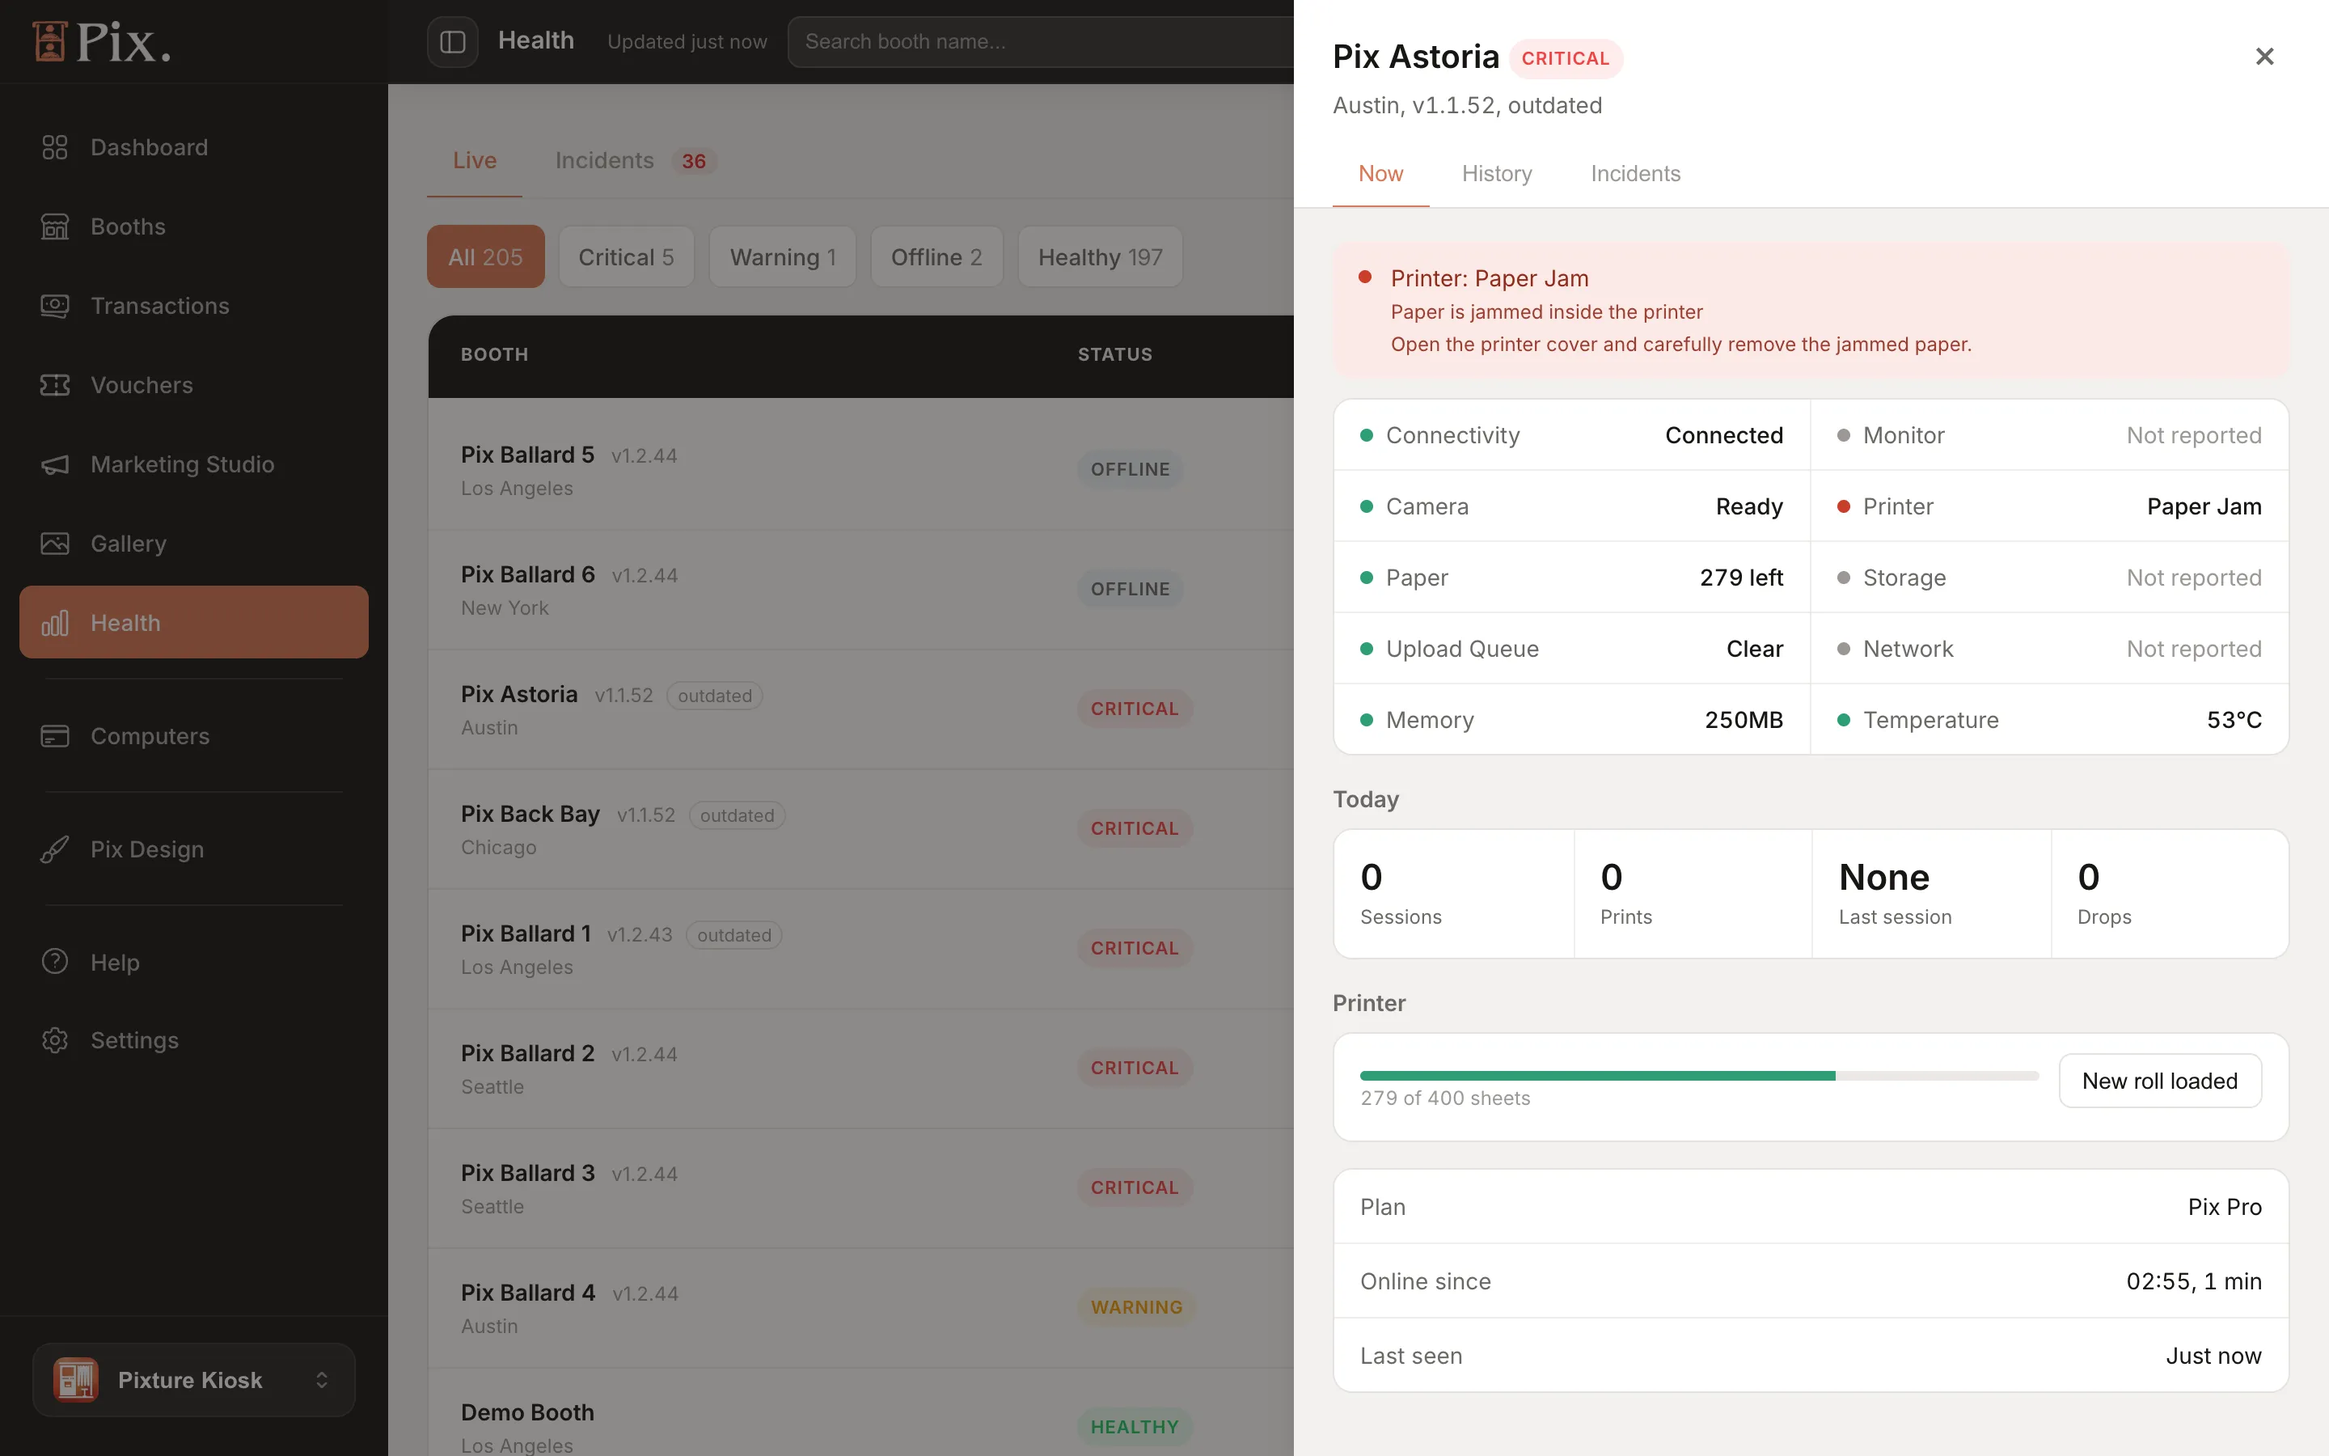
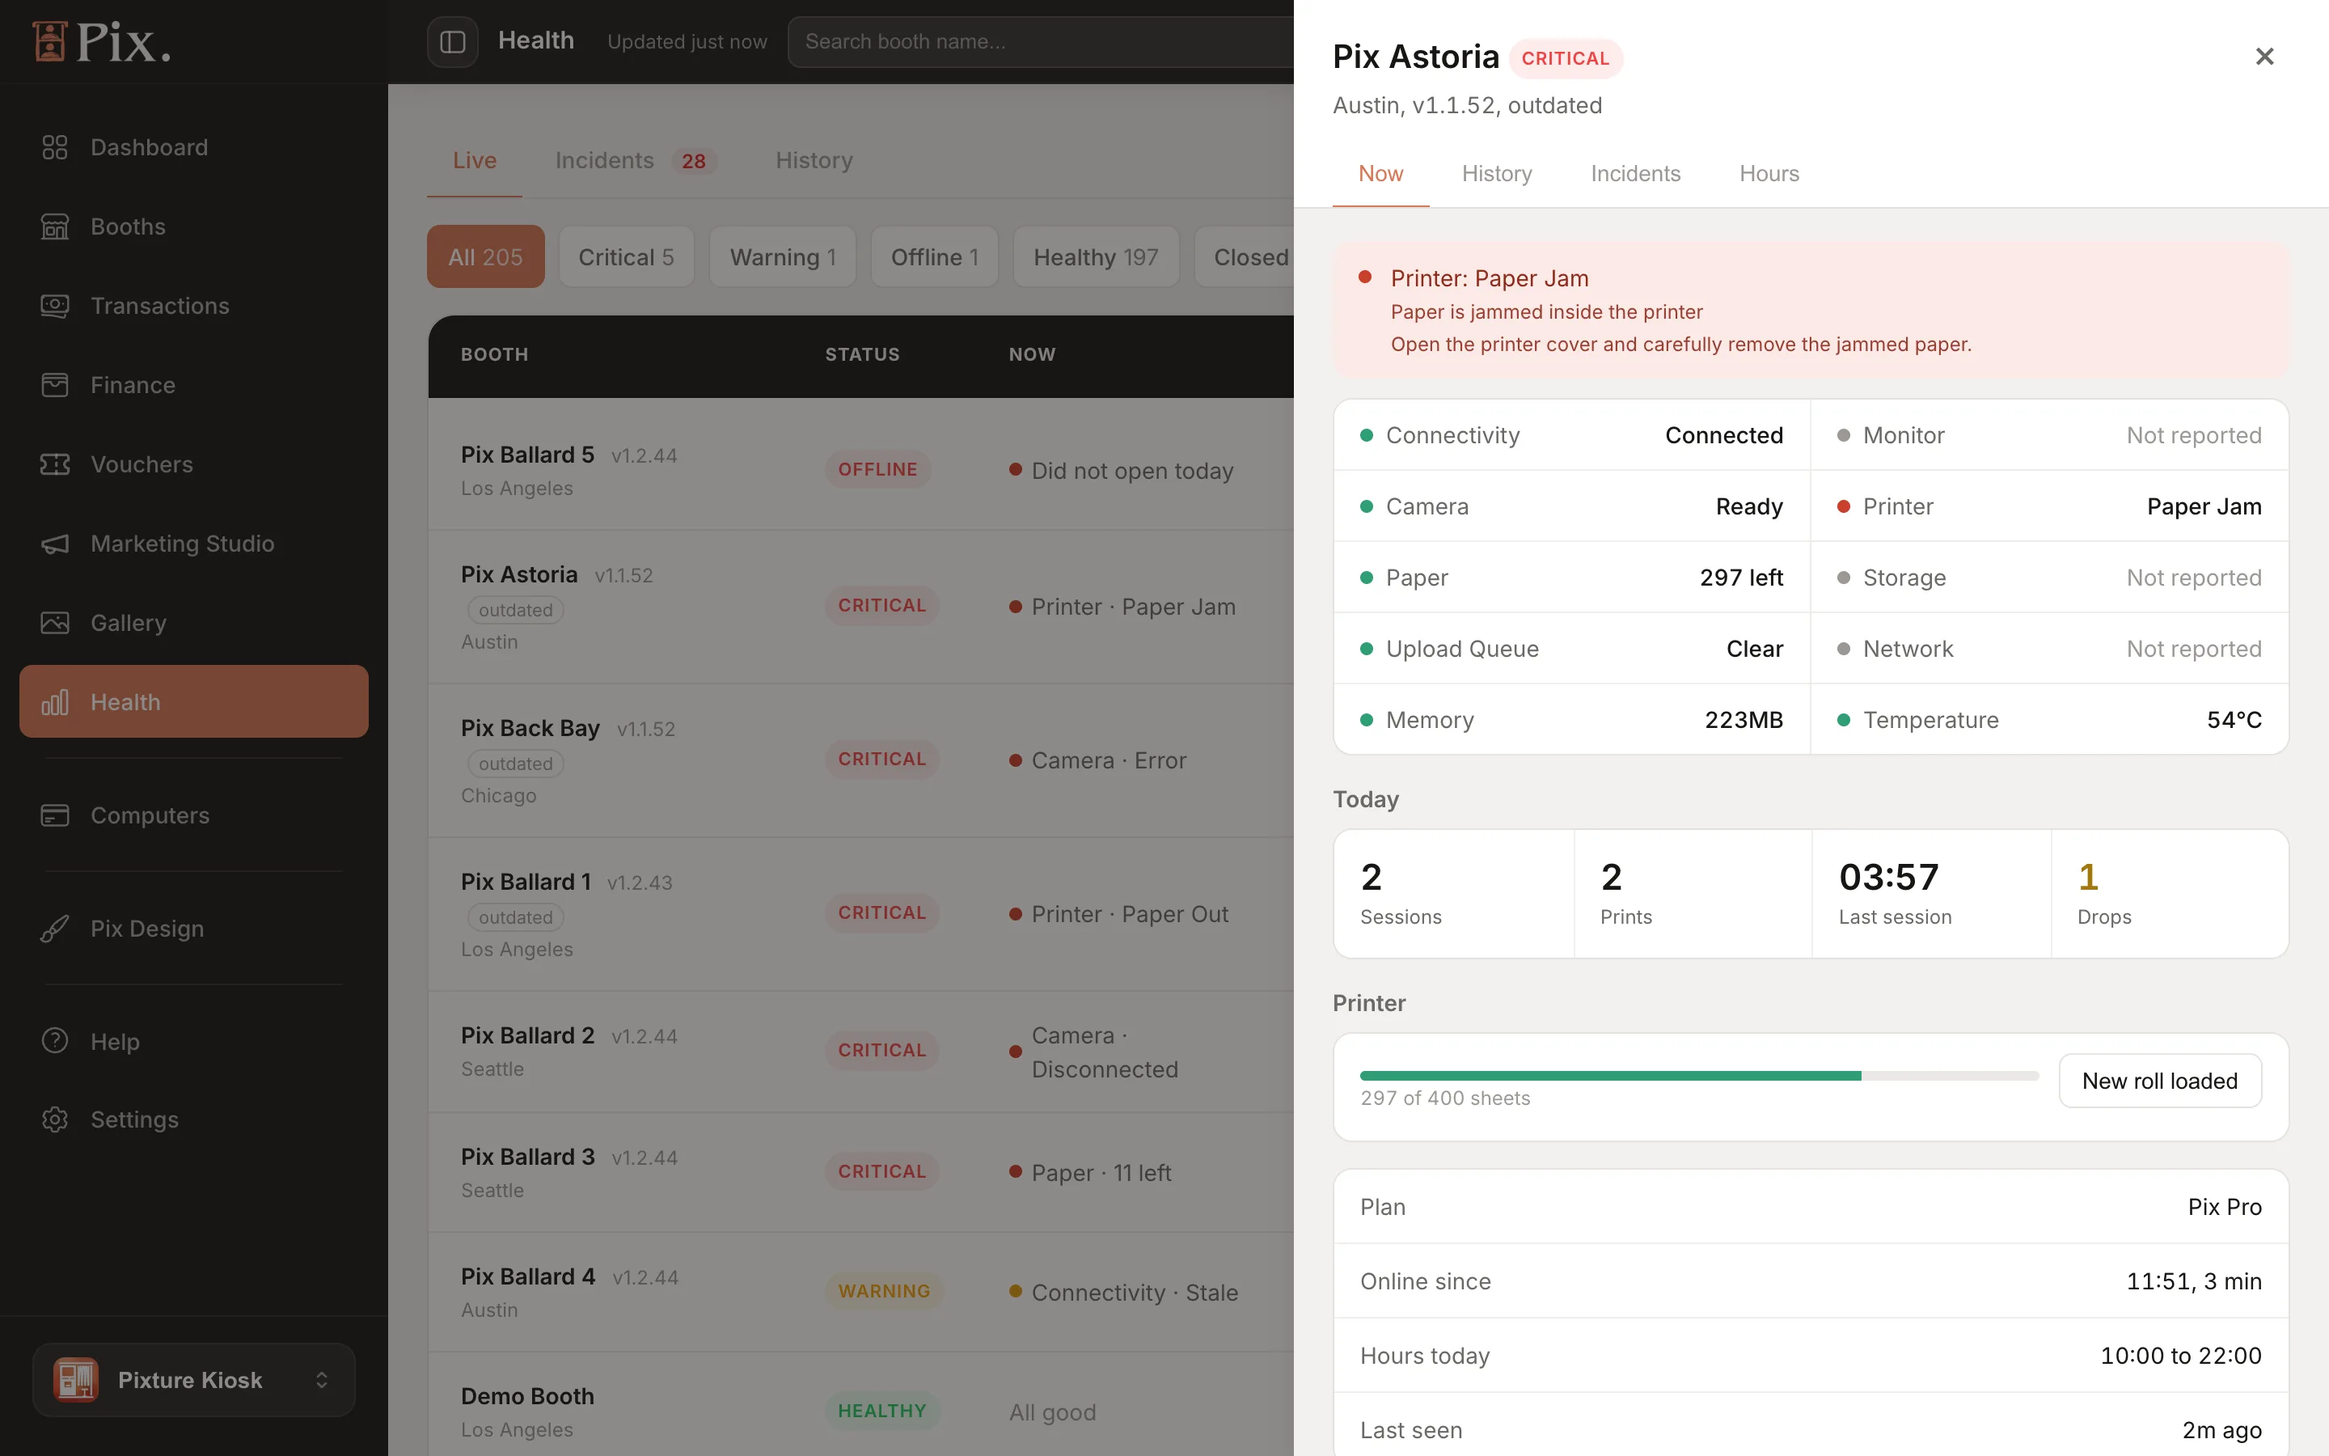
docs(health): opening hours, the History tab, reporting incidents and notes

diff --git a/docs/dashboard/health.md b/docs/dashboard/health.md
@@ -1,29 +1,31 @@
 ---
 sidebar_position: 11
 title: Health
-description: Whether every booth is online and working, with camera, printer, paper and upload signals, a booth view with 60 days of history, and incidents you can filter and download.
+description: Whether every booth is online and working, with opening hours per booth, a day-by-day record of the last 60 days, and incidents you can report, annotate and download.
 tags: [dashboard, health, monitoring]
 ---
 
 # Health
 
-**Health** is the page to open when a booth misbehaves, or before an event starts. It lists every booth with its status, what the booth is reporting right now, today's count and when it last checked in. Click a booth for its readings and 60 days of history, and open **Incidents** for everything that went wrong.
+**Health** is the page to open when a booth misbehaves, or before an event starts. It has three tabs. **Live** lists every booth with its status, what it is reporting right now and when it last checked in. **Incidents** is everything that went wrong, including what your team reports by hand. **History** is every booth, day by day, for the last 60 days.
 
-![Health page: the Live list with Status, Now, Today and Last seen, and the Incidents tab](/img/docs/health.webp)
+![Health page, Live tab: each booth with its status, what it reports now, its hours today, the last 14 days as squares, today's count and when it was last seen](/img/docs/health.webp)
 
 On an account with events, Health follows the workspace you are in. **Pixture Kiosk** lists your self-service booths, **Pixture Event** lists **Event health**: event booths and any booth attached to an event, and the **Overview** lists every booth. An event booth, or a booth attached to an event, shows only while its event is running or still to come. Once the event is past (from 06:00 the morning after its last date, or once it is ended or archived), its booths leave the list. The Event dashboard also shows a Health card. See [Pixture Event, Pixture Kiosk and Overview](./views.md).
 
 ## Live
 
-**Live** is the list of your booths. Booths with a problem come first: Offline, then Critical, Warning and Healthy. The list shows 50 booths per page and refreshes by itself every 30 seconds; the note beside the title says how old the data is.
+**Live** is the list of your booths. Booths with a problem come first: Offline, then Critical, Warning and Healthy, and Closed booths last. The list shows 50 booths per page and refreshes by itself every 30 seconds; the note beside the title says how old the data is.
 
-Search by booth name, pick a **Region**, and filter by **All**, **Critical**, **Warning**, **Offline** or **Healthy**. A status with no booths is left out. Your search and filters stay in the page address, so they survive a reload and you can share the link.
+Search by booth name, pick a **Region**, and filter by **All**, **Critical**, **Warning**, **Offline**, **Healthy** or **Closed**. A status with no booths is left out. Your search and filters stay in the page address, so they survive a reload and you can share the link.
 
 | Column | What it shows |
 |---|---|
 | Booth | The booth's name, its app version (marked **outdated** when a newer one is out) and its region |
-| Status | Healthy, Warning, Critical or Offline |
+| Status | Healthy, Warning, Critical, Offline or Closed. Offline is red when the booth should be open right now |
 | Now | What the booth is reporting, in plain words. "No signal for 1h 18m" for an offline booth, "Never connected" for a booth that has not signed in yet, "Dropped 3 times today" for a booth that keeps losing its connection |
+| Hours today | The booth's opening hours today and when it came online: "Online at 09:58", "Online 47 min late" or "Not online yet". Shown once a booth has [opening hours](#opening-hours) |
+| Last 14 days | One square per day, the same squares as the [History](#history) tab. Hover one to read the day, click it to open that day |
 | Today | Sessions and prints so far today |
 | Last seen | When the computer last checked in |
 
@@ -31,7 +33,33 @@ Search by booth name, pick a **Region**, and filter by **All**, **Critical**, **
 
 The booth checks in every 5 minutes while it runs. A booth is **Online** when its last check-in is within the last **12 minutes**, and **Offline** after that. The same rule is used on the Booths page, the Dashboard and the booth's activity log, so they never disagree.
 
-Offline does not always mean something is wrong. A booth switched off outside opening hours is Offline too. Look at Last seen: a booth that went quiet at closing time is fine, one that went quiet mid-afternoon needs a call.
+Offline does not always mean something is wrong. A booth switched off at closing time is Offline too. Give your booths [opening hours](#opening-hours) and Health tells the two apart: a booth that is off outside its hours is **Closed**, and Offline then means "should be open and is not".
+
+## Opening Hours
+
+Tell Health when each booth is meant to be open, and it stops treating every night as an outage.
+
+![Opening hours: named weekly hours, the booths that follow each, and the late allowance](/img/docs/health-opening-hours.webp)
+
+1. On the Live tab, click **Opening hours**.
+2. Click **Add hours**, give them a name ("Mall hours"), and set each day's opening and closing time. Switch a day off for a closed day.
+3. Click the booth count beside the hours and tick the booths that follow them.
+4. Tick **New booths start on these hours** on the hours most of your booths use.
+
+What changes for a booth that has hours:
+
+- Off outside its hours, or on a closed day: the status is **Closed**. No incident, no alert, and no "back online" alert when it is switched on in the morning.
+- Off inside its hours: **Offline** in red, with the usual incident and alert.
+- Not online by opening time plus the late allowance: an **Opened late** incident and one "not open yet" alert. It closes when the booth comes online, and then reads "Online 47 min late". Pick the allowance under **Count as late after**: 5, 15 or 30 minutes.
+
+Good to know:
+
+- Hours start counting the day after you set or change them. Today and past days are never judged again.
+- Times follow your account's time zone.
+- The latest closing time is midnight. Hours that run past midnight, and one-off closed dates such as holidays, are not supported yet.
+- You need to manage every booth in the account to change opening hours. Anyone who can open Health sees them.
+- A booth with no hours works as before: every time it goes quiet for 12 minutes is an Offline incident.
+- Opening hours are for self-service booths. The **Pixture Event** workspace does not show the button.
 
 ## What the Signals Mean
 
@@ -46,15 +74,16 @@ Offline does not always mean something is wrong. A booth switched off outside op
 
 ## Booth View
 
-Click a booth to open its view. It has three tabs.
+Click a booth to open its view. It has four tabs (three in Pixture Event, where booths have no opening hours).
 
 ![Health booth view, Now tab: the problem on top, the readings, today's count and the printer](/img/docs/health-booth-detail.webp)
 
 - **Now**: any problem on top, with what to do about it. Below it, the booth's readings (connection, camera, printer, paper, storage, uploads, network, memory, temperature), today's sessions and prints, the printer with its paper, the plan, and since when the booth has been online. A reading the booth does not send says "Not reported". An offline booth shows no readings: the last ones it sent may no longer be true.
-- **History**: the last 60 days, one line per day. The bar runs from midnight to midnight: green is the time the booth was online, red is time without a signal. The right side says how the day went: the number of sessions, "Offline 38 min", "Offline all day" or "No record". Click a day for the exact times.
-- **Incidents**: what went wrong on this booth in the last 60 days.
+- **History**: the last 60 days, one line per day. The bar runs from midnight to midnight: green is the time the booth was online. For a booth with opening hours, a late start is amber and time down inside its hours is red; nights stay plain. The right side says how the day went: the number of sessions, "Online 47 min late", "Down 1h 18m", "Did not open", "Closed" or "No record". The totals on top are **Open in its hours**, **Time down** and **Late opens**. A booth without hours shows "Offline 38 min" or "Offline all day" instead. Click a day for the exact times.
+- **Incidents**: what went wrong on this booth in the last 60 days, and **Report incident** for this booth.
+- **Hours**: today's hours and which hours the booth follows, with a way to change them for this one booth.
 
-![Health booth view, History tab: one bar per day for 60 days](/img/docs/health-booth-history.webp)
+![Health booth view, History tab: one bar per day, a late start in amber, time down in red, and the day's result on the right](/img/docs/health-booth-history.webp)
 
 ### New Roll Loaded
 
@@ -62,16 +91,57 @@ For a booth computer, the **Printer** section of the Now tab shows "About N of N
 
 ## Incidents
 
-The **Incidents** tab lists every time a booth went offline or its camera, printer, paper, screen, memory or temperature failed. The number on the tab is how many are still open.
+The **Incidents** tab lists every time a booth went offline, opened late, or its camera, printer, paper, screen, memory or temperature failed, plus anything your team reported by hand. The number on the tab is how many are still open.
 
-![Health Incidents tab: totals, filters and the list of incidents](/img/docs/health-incidents.webp)
+![Health Incidents tab: totals, filters, Report incident, and the list with who reported each one](/img/docs/health-incidents.webp)
 
-- Three totals for the period you picked: **Open now**, **Incidents** and **Time offline**.
+- Totals for the period you picked: **Open now**, **Incidents**, **Time offline** and, once a booth has opening hours, **Opened late**.
 - Filter by period (**Last 24 hours**, **7 days**, **30 days** or **60 days**), by type, and by **Open** or **Resolved**. The search and Region at the top of the page apply here too.
-- Each row shows when it started, the booth, what happened, how long it lasted and whether it is still open. Click a row for the details and the likely cause, when Pixture could work one out.
+- Each row shows when it started, the booth, what happened, how long it lasted, who reported it (a name, or **Automatic**) and whether it is still open. Click a row for the details, the notes and the likely cause, when Pixture could work one out.
 - **Download CSV** saves every incident that matches your filters, to send to Pixture support or to keep for your own records.
 
-An incident closes by itself when the booth recovers. Incidents are kept for 90 days.
+An automatic incident closes by itself when the booth recovers. Incidents are kept for 90 days.
+
+### Report an Incident
+
+Some problems the booth cannot see: a payment that would not go through, a customer complaint, a power cut. Report them so they sit in the same list.
+
+![Report incident: one booth, what happened, when it started and a note](/img/docs/health-report-incident.webp)
+
+1. On the Incidents tab, click **Report incident**. Inside a booth's view, the same button on its Incidents tab already has that booth chosen.
+2. Choose the booth and what happened: Printer error, Camera error, Payment problem, Screen disconnected, Power or internet, Customer complaint or Other.
+3. Set when it started and add a note. Switch **Still happening** off if it is already over, and say when it ended.
+
+A reported incident never sends an alert, and the booth's own readings never close it.
+
+### Notes and Mark Resolved
+
+![An incident: when it started, who reported it, the notes and the note box](/img/docs/health-incident-notes.webp)
+
+Open any incident to read its notes or add one. Each note keeps who wrote it and when. Notes work on automatic incidents too.
+
+A reported incident stays open until someone clicks **Mark resolved**. An automatic incident has no such button: it closes when the booth recovers.
+
+Anyone who can open Health can report, add notes and resolve, for the booths their role includes. A report cannot be edited or deleted afterwards; add a note to correct it.
+
+## History
+
+**History** is every booth by day for the last 60 days, the same length of time photos are kept. One row per booth, one square per day, today on the right.
+
+![Health History tab: one row per booth and one square per day for 60 days](/img/docs/health-history.webp)
+
+| Square | The day |
+|---|---|
+| Green | Open all day |
+| Amber, half filled | Less than 1 hour lost: a late start or a short outage |
+| Red | 1 hour or more lost inside its hours |
+| Flat line | A closed day |
+| Hollow | No record, or the booth was offline and has no opening hours |
+
+- Hover a square to read the day. Click it to open that booth's History on that day.
+- The right column is how much of its opening hours the booth was open. Order the list by **Least open first** or by **Name**.
+- A booth without opening hours is green on the days it was online and hollow on the others. It has no percentage and comes last.
+- **Download CSV** saves one line per booth per day.
 
 ## App Version and Updates
 

diff --git a/docs/iphone-app/notifications-lucy-and-settings.md b/docs/iphone-app/notifications-lucy-and-settings.md
@@ -22,6 +22,8 @@ Open **Notification Settings** to choose which alerts you get:
 | **Pix Pro Ending** | A computer's Pix Pro is about to end |
 | **Event Pass Started** / **Event Pass Ended** | An Event Pass starts or ends on a computer |
 
+A booth with [opening hours](../dashboard/health.md#opening-hours) stays quiet when it is switched off outside them, and sends **Not Open Yet** when it is not online in time.
+
 **Pause All Notifications** turns every alert off until you switch it back on.
 
 Every alert also lands in the inbox behind the bell at the top of the side menu. **Mark All Read** clears the dots.
